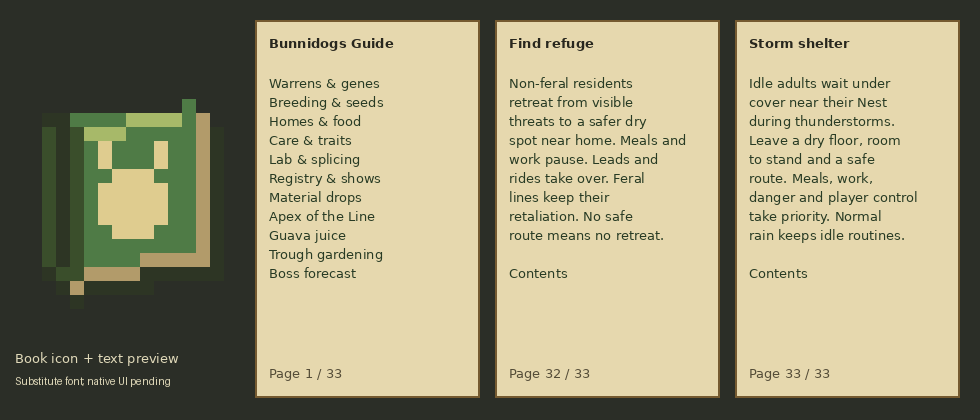
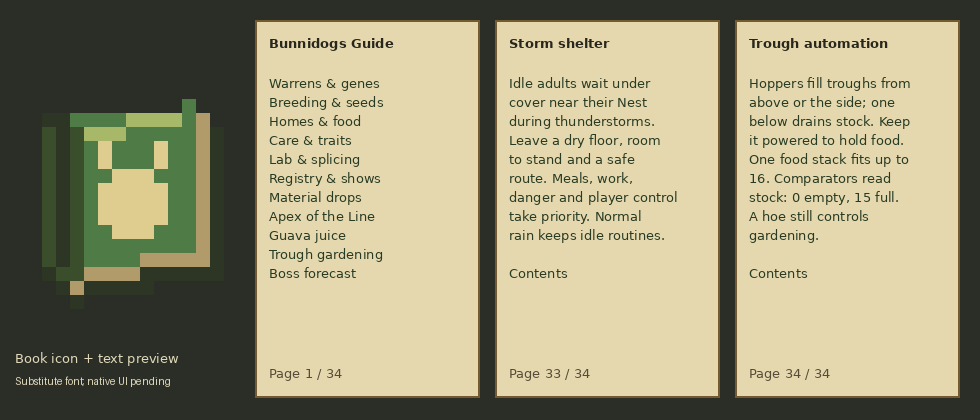
Automate feeding troughs with transactional stock and comparator output

diff --git a/tools/gametest/java/com/bunnidogs/mod/entity/TroughAutomationGameTest.java b/tools/gametest/java/com/bunnidogs/mod/entity/TroughAutomationGameTest.java
@@ -1,0 +1,104 @@
+package com.bunnidogs.mod.entity;
+
+import com.bunnidogs.mod.block.FeedingTroughBlock;
+import com.bunnidogs.mod.block.FeedingTroughBlockEntity;
+import com.bunnidogs.mod.registry.ModBlocks;
+import com.bunnidogs.mod.registry.ModItems;
+import net.minecraft.core.BlockPos;
+import net.minecraft.core.Direction;
+import net.minecraft.core.component.DataComponents;
+import net.minecraft.gametest.framework.GameTestHelper;
+import net.minecraft.network.chat.Component;
+import net.minecraft.world.entity.item.ItemEntity;
+import net.minecraft.world.item.ItemStack;
+import net.minecraft.world.item.Items;
+import net.minecraft.world.level.block.Blocks;
+import net.minecraft.world.level.block.ComparatorBlock;
+import net.minecraft.world.level.block.HopperBlock;
+import net.minecraft.world.level.block.entity.ComparatorBlockEntity;
+import net.minecraft.world.level.block.entity.HopperBlockEntity;
+import net.minecraft.world.phys.AABB;
+import net.neoforged.neoforge.capabilities.Capabilities;
+import net.neoforged.neoforge.transfer.item.ItemResource;
+import net.neoforged.neoforge.transfer.transaction.Transaction;
+
+public final class TroughAutomationGameTest {
+    private TroughAutomationGameTest() {}
+    public static void run(GameTestHelper h) {
+        var level = h.getLevel();
+        h.setBlock(3,0,3,Blocks.REDSTONE_BLOCK); h.setBlock(4,1,3,Blocks.STONE);
+        h.setBlock(new BlockPos(3,1,3),Blocks.HOPPER.defaultBlockState().setValue(HopperBlock.ENABLED,false));
+        h.setBlock(3,2,3,ModBlocks.FEEDING_TROUGH.get());
+        h.setBlock(3,3,3,Blocks.HOPPER);
+        h.setBlock(new BlockPos(4,2,3),Blocks.COMPARATOR.defaultBlockState().setValue(ComparatorBlock.FACING,Direction.WEST));
+        var pos = h.absolutePos(new BlockPos(3,2,3));
+        var comparator = (ComparatorBlockEntity)level.getBlockEntity(pos.east());
+        var trough = (FeedingTroughBlockEntity)level.getBlockEntity(pos);
+        var input = (HopperBlockEntity)level.getBlockEntity(pos.above());
+        var output = (HopperBlockEntity)level.getBlockEntity(pos.below());
+        var named = new ItemStack(Items.CARROT,64);
+        named.set(DataComponents.CUSTOM_NAME,Component.literal("Delivered carrots"));
+        h.runAfterDelay(2,() -> {
+            var handler = level.getCapability(Capabilities.Item.BLOCK,pos,Direction.UP);
+            h.assertTrue(handler != null && handler == level.getCapability(Capabilities.Item.BLOCK,pos,Direction.DOWN),
+                    "All sides must share one transactional view of the real stock");
+            input.setItem(0,named.copy());
+            for (int tick = 0; tick < 160; tick++)
+                HopperBlockEntity.pushItemsTick(level,pos.above(),input.getBlockState(),input);
+            h.assertTrue(trough.food().getCount() == 16 && input.getItem(0).getCount() == 48
+                    && ItemStack.isSameItemSameComponents(named,trough.food()),
+                    "Real hopper pushes must stop at 16, retaining every remaining item and its components");
+            h.assertTrue(level.getBlockState(pos).getValue(FeedingTroughBlock.FILL) == 3,"Committed automation must update visible stock");
+            input.clearContent();
+            try (var transaction = Transaction.openRoot()) {
+                h.assertTrue(handler.extract(ItemResource.of(named),5,transaction) == 5,"A transfer may tentatively extract matching stock");
+            }
+            h.assertTrue(trough.food().getCount() == 16 && trough.stockSignal() == 15,
+                    "An uncommitted transfer must restore exact stock and leave visible/redstone state alone");
+            h.runAfterDelay(3,() -> {
+                h.assertTrue(comparator.getOutputSignal() == 15,"A real neighbouring comparator must notice a full trough");
+                level.setBlock(pos.below(2),Blocks.STONE.defaultBlockState(),3);
+                HopperBlockEntity.pushItemsTick(level,pos.below(),output.getBlockState(),output);
+                level.setBlock(pos.below(2),Blocks.REDSTONE_BLOCK.defaultBlockState(),3);
+                h.assertTrue(trough.food().getCount() == 15 && output.getItem(0).getCount() == 1
+                        && ItemStack.isSameItemSameComponents(named,output.getItem(0)),
+                        "A real hopper below must extract exactly one preserved item");
+                try (var transaction = Transaction.openRoot()) {
+                    h.assertTrue(handler.insert(ItemResource.of(Items.CARROT),1,transaction) == 0
+                            && handler.insert(ItemResource.of(Items.STONE),1,transaction) == 0
+                            && handler.insert(ItemResource.of(Items.MUSHROOM_STEW),1,transaction) == 0,
+                            "Automation must reject mismatched components, non-food and remainder-bearing food");
+                    transaction.commit();
+                }
+                h.runAfterDelay(3,() -> {
+                    h.assertTrue(comparator.getOutputSignal() == 14,"Extraction must update the comparator even within the same visual fill level");
+                    var savedStock = trough.takeAll();
+                    var small = new ItemStack(ModItems.GUAVA.get());
+                    small.set(DataComponents.MAX_STACK_SIZE,1);
+                    try (var transaction = Transaction.openRoot()) {
+                        h.assertTrue(handler.insert(ItemResource.of(small),8,transaction) == 1,
+                                "A smaller component-defined stack limit must cap even a bulk transfer");
+                        transaction.commit();
+                    }
+                    h.assertTrue(trough.food().getCount() == 1 && trough.stockSignal() == 15,
+                            "Comparator fullness must use the effective item capacity");
+                    try (var transaction = Transaction.openRoot()) {
+                        h.assertTrue(handler.extract(ItemResource.of(small),8,transaction) == 1,"Extraction must respect available stock");
+                        transaction.commit();
+                    }
+                    h.runAfterDelay(3,() -> {
+                        h.assertTrue(comparator.getOutputSignal() == 0 && trough.food().isEmpty()
+                                && level.getBlockState(pos).getValue(FeedingTroughBlock.FILL) == 0,"Empty committed stock must clear both outputs");
+                        trough.insert(savedStock);
+                        level.destroyBlock(pos,true);
+                        int dropped = level.getEntitiesOfClass(ItemEntity.class,new AABB(pos).inflate(1),
+                                item -> ItemStack.isSameItemSameComponents(item.getItem(),savedStock))
+                                .stream().mapToInt(item -> item.getItem().getCount()).sum();
+                        h.assertTrue(dropped == 15,"Breaking an automated trough must drop its preserved stock exactly once");
+                        h.succeed();
+                    });
+                });
+            });
+        });
+    }
+}

diff --git a/src/main/java/com/bunnidogs/mod/block/FeedingTroughBlockEntity.java b/src/main/java/com/bunnidogs/mod/block/FeedingTroughBlockEntity.java
@@ -21,17 +21,35 @@ import net.minecraft.world.level.block.entity.BlockEntity;
 import net.minecraft.world.level.block.state.BlockState;
 import net.minecraft.world.level.storage.ValueInput;
 import net.minecraft.world.level.storage.ValueOutput;
+import net.neoforged.neoforge.transfer.ResourceHandler;
+import net.neoforged.neoforge.transfer.item.ItemResource;
+import net.neoforged.neoforge.transfer.item.ItemStackResourceHandler;
 
 /** One preserved food stack. Meals are server-thread transactions; residents share the stock. */
 public final class FeedingTroughBlockEntity extends BlockEntity {
     public static final int CAPACITY = 16;
     private ItemStack food = ItemStack.EMPTY;
+    /** One journal for every side, retaining the existing Food save and exact components. */
+    private final ItemStackResourceHandler automation = new ItemStackResourceHandler() {
+        @Override protected ItemStack getStack() { return food; }
+        @Override protected void setStack(ItemStack stack) { food = stack; }
+        @Override protected boolean isValid(ItemResource resource) { return accepts(resource.toStack()); }
+        @Override protected int getCapacity(ItemResource resource) {
+            return resource.isEmpty() ? CAPACITY : Math.min(CAPACITY,resource.getMaxStackSize());
+        }
+        @Override protected void onRootCommit(ItemStack previous) { changed(); }
+    };
     public FeedingTroughBlockEntity(BlockPos pos, BlockState state) { super(ModBlocks.FEEDING_TROUGH_BE.get(),pos,state); }
     public static boolean accepts(ItemStack stack) {
         return !stack.isEmpty() && !stack.has(DataComponents.USE_REMAINDER)
                 && (stack.is(ModItems.BUNNIDOG_FOOD) || Arrays.stream(Diet.values()).anyMatch(d -> ModDietTags.accepts(d,stack)));
     }
     public ItemStack food() { return this.food; }
+    public ResourceHandler<ItemResource> automation() { return this.automation; }
+    public int stockSignal() {
+        return this.food.isEmpty() ? 0 : 1+14*Math.min(this.food.getCount(),Math.min(CAPACITY,this.food.getMaxStackSize()))
+                / Math.min(CAPACITY,this.food.getMaxStackSize());
+    }
     public boolean canInsert(ItemStack stack) {
         return accepts(stack) && (this.food.isEmpty() || ItemStack.isSameItemSameComponents(this.food,stack))
                 && this.food.getCount() < Math.min(CAPACITY,stack.getMaxStackSize());
@@ -59,7 +77,7 @@ public final class FeedingTroughBlockEntity extends BlockEntity {
     }
     private void changed() {
         this.setChanged();
-        if (this.level instanceof ServerLevel server) {
+        if (this.level instanceof ServerLevel server && !this.isRemoved() && server.getBlockEntity(this.worldPosition) == this) {
             int fill = this.food.isEmpty() ? 0 : this.food.getCount() <= 5 ? 1 : this.food.getCount() <= 10 ? 2 : 3;
             if (this.getBlockState().getValue(FeedingTroughBlock.FILL) != fill)
                 server.setBlock(this.worldPosition,this.getBlockState().setValue(FeedingTroughBlock.FILL,fill),3);

diff --git a/art/gen_guide.py b/art/gen_guide.py
@@ -37,6 +37,7 @@ PAGES = {
     31: ('Resident needs', 'Sneak-use Calipers for a claimed Nest, distance, foods and meal recovery. Healthy adults need no healing. Ready means ready to search, not a promise of nearby food. Reading changes nothing.'),
     32: ('Find refuge', 'Non-feral residents retreat from visible threats to a safer dry spot near home. Meals and work pause. Leads and rides take over. Feral lines keep their retaliation. No safe route means no retreat.'),
     33: ('Storm shelter', 'Idle adults wait under cover near their Nest during thunderstorms. Leave a dry floor, room to stand and a safe route. Meals, work, danger and player control take priority. Normal rain keeps idle routines.'),
+    34: ('Trough automation', 'Hoppers fill troughs from above or the side; one below drains stock. Keep it powered to hold food. One food stack fits up to 16. Comparators read stock: 0 empty, 15 full. A hoe still controls gardening.'),
 }
 INDEX = {2:'Warrens & genes',4:'Breeding & seeds',8:'Homes & food',11:'Care & traits',15:'Lab & splicing',
          17:'Registry & shows',19:'Material drops',20:'Apex of the Line',24:'Guava juice',25:'Trough gardening',27:'Boss forecast'}
@@ -85,7 +86,7 @@ def main():
         bold = ImageFont.truetype('DejaVuSans-Bold.ttf',13)
     except OSError:
         font = bold = ImageFont.load_default()
-    for x,page in [(255,1),(495,32),(735,33)]:
+    for x,page in [(255,1),(495,33),(735,34)]:
         d.rectangle((x,20,x+224,397),fill=(230,216,174),outline=(117,90,48),width=2)
         d.text((x+14,35), 'Bunnidogs Guide' if page == 1 else PAGES[page][0], font=bold,fill=(40,39,30))
         if page == 1: body = '\n'.join(INDEX.values())

diff --git a/tools/gametest/java/com/bunnidogs/mod/entity/GuavaGameTest.java b/tools/gametest/java/com/bunnidogs/mod/entity/GuavaGameTest.java
@@ -55,7 +55,7 @@ public final class GuavaGameTest extends GameTestInstance {
     @SubscribeEvent
     public static void registerTests(RegisterGameTestsEvent event) {
         var environment = event.registerEnvironment(id("guava_integration"), new TestEnvironmentDefinition.AllOf());
-        for (String name : new String[]{"boats", "signs", "transport", "rehoming", "wayfinding", "sampling", "adaptations", "fleece", "splicing", "registry", "table_planning", "show", "grooming", "settlement", "apex", "fixtures", "gardening", "pantry", "fishing", "refuge", "storm_shelter"}) {
+        for (String name : new String[]{"boats", "signs", "transport", "rehoming", "wayfinding", "sampling", "adaptations", "fleece", "splicing", "registry", "table_planning", "show", "grooming", "settlement", "apex", "fixtures", "gardening", "pantry", "fishing", "refuge", "storm_shelter", "trough_automation"}) {
             event.registerTest(id(name), new GuavaGameTest(name, new TestData<>(environment, id("empty"), 100, 0, true)));
         }
     }
@@ -80,6 +80,7 @@ public final class GuavaGameTest extends GameTestInstance {
             case "fishing" -> { FishingGameTest.run(h); return; }
             case "refuge" -> { RefugeGameTest.run(h); return; }
             case "storm_shelter" -> { StormShelterGameTest.run(h); return; }
+            case "trough_automation" -> { TroughAutomationGameTest.run(h); return; }
             case "grooming" -> GroomingGameTest.run(h);
             case "settlement" -> { SettlementGameTest.run(h); return; }
             case "transport" -> transport(h);

diff --git a/src/main/java/com/bunnidogs/mod/block/FeedingTroughBlock.java b/src/main/java/com/bunnidogs/mod/block/FeedingTroughBlock.java
@@ -1,6 +1,7 @@
 package com.bunnidogs.mod.block;
 
 import net.minecraft.core.BlockPos;
+import net.minecraft.core.Direction;
 import net.minecraft.network.chat.Component;
 import net.minecraft.tags.ItemTags;
 import net.minecraft.world.InteractionHand;
@@ -32,6 +33,10 @@ public final class FeedingTroughBlock extends Block implements EntityBlock {
     @Override protected void createBlockStateDefinition(StateDefinition.Builder<Block,BlockState> builder) { builder.add(FILL,TENDING); }
     @Override public BlockEntity newBlockEntity(BlockPos pos, BlockState state) { return new FeedingTroughBlockEntity(pos,state); }
     @Override public VoxelShape getShape(BlockState state, BlockGetter level, BlockPos pos, CollisionContext context) { return SHAPE; }
+    @Override protected boolean hasAnalogOutputSignal(BlockState state) { return true; }
+    @Override protected int getAnalogOutputSignal(BlockState state, Level level, BlockPos pos, Direction direction) {
+        return level.getBlockEntity(pos) instanceof FeedingTroughBlockEntity trough ? trough.stockSignal() : 0;
+    }
     @Override protected InteractionResult useItemOn(ItemStack stack, BlockState state, Level level, BlockPos pos,
             Player player, InteractionHand hand, BlockHitResult hit) {
         if (!player.mayBuild()) return InteractionResult.PASS;

diff --git a/src/main/java/com/bunnidogs/mod/registry/ModBlocks.java b/src/main/java/com/bunnidogs/mod/registry/ModBlocks.java
@@ -35,6 +35,8 @@ import net.minecraft.world.level.block.TintedParticleLeavesBlock;
 import net.minecraft.world.level.block.entity.BlockEntityType;
 import net.minecraft.world.level.block.entity.BlockEntityTypes;
 import net.neoforged.neoforge.event.BlockEntityTypeAddBlocksEvent;
+import net.neoforged.neoforge.capabilities.Capabilities;
+import net.neoforged.neoforge.capabilities.RegisterCapabilitiesEvent;
 import net.neoforged.neoforge.registries.DeferredBlock;
 import net.neoforged.neoforge.registries.DeferredHolder;
 import net.neoforged.neoforge.registries.DeferredRegister;
@@ -49,6 +51,10 @@ import net.neoforged.neoforge.registries.DeferredRegister;
  */
 public final class ModBlocks {
     private ModBlocks() {}
+
+    public static void registerCapabilities(RegisterCapabilitiesEvent event) {
+        event.registerBlockEntity(Capabilities.Item.BLOCK,FEEDING_TROUGH_BE.get(),(trough,side) -> trough.automation());
+    }
 
     public static final DeferredRegister.Blocks BLOCKS = DeferredRegister.createBlocks(BunnidogsMod.MODID);
     public static final DeferredRegister<BlockEntityType<?>> BLOCK_ENTITIES =

diff --git a/src/main/java/com/bunnidogs/mod/item/FieldGuideItem.java b/src/main/java/com/bunnidogs/mod/item/FieldGuideItem.java
@@ -11,7 +11,7 @@ import net.minecraft.world.item.component.WrittenBookContent;
 
 /** Native book UI/packets, translated pages and local page links; no custom screen or payload. */
 public final class FieldGuideItem extends WrittenBookItem {
-    public static final int PAGE_COUNT = 33;
+    public static final int PAGE_COUNT = 34;
     public FieldGuideItem(Properties properties) {
         super(properties.component(DataComponents.WRITTEN_BOOK_CONTENT, content()));
     }

diff --git a/src/main/java/com/bunnidogs/mod/BunnidogsMod.java b/src/main/java/com/bunnidogs/mod/BunnidogsMod.java
@@ -35,6 +35,7 @@ public class BunnidogsMod {
         ModStructures.PIECE_TYPES.register(modEventBus);
         ModBlocks.BLOCK_ENTITIES.register(modEventBus);
         modEventBus.addListener(ModBlocks::addSignBlocks);
+        modEventBus.addListener(ModBlocks::registerCapabilities);
         ModItems.COMPONENTS.register(modEventBus);
         ModItems.ITEMS.register(modEventBus);
         modEventBus.addListener(ModItems::addToCreativeTabs);

diff --git a/START_HERE.md b/START_HERE.md
@@ -20,6 +20,12 @@ is not exposed in this session: use available work budget without inventing quot
 
 ## Latest gameplay work — 2026-10-16
 
+- **L9, trough automation:** native hoppers supply/extract the existing stack;
+  comparators read 0 empty through 15 full. The shared transactional handler
+  preserves the 16-item/effective limit, food filters and exact components.
+  Power a hopper below to retain food. No new saves, menu or structure refill.
+  See `docs/SETTLEMENT_LIFE.md` L9.
+
 - **L8, storm shelter:** idle adults seek dry reachable cover near their Nest
   during native thunderstorms, then wait there. The bounded low-priority goal
   yields to care, work, social/home routines, breeding, danger and player control.
@@ -67,7 +73,7 @@ is not exposed in this session: use available work budget without inventing quot
   all eight crops remain. End mushroom plots and saved versions 1–3 keep their
   previous layout. See `docs/SETTLEMENT_LIFE.md` L5.
 
-The native Field Guide now has 33 translated pages and eleven contents links.
+The native Field Guide now has 34 translated pages and eleven contents links.
 `art/gen_guide.py` owns its text/icon/preview, including gardening, forecasts,
 renewable care, terrain traits and fishing. `art/gen_pantries.py` owns the eight
 new loot tables and shares the guide pool. See `docs/FIELD_GUIDE.md`.
@@ -84,7 +90,7 @@ new loot tables and shares the guide pool. See `docs/FIELD_GUIDE.md`.
 | Care | Live Tissue Samples, woolly fleece, whiskers/dust, saved recoveries and sneak-Calipers home/food/care/work status. `docs/CARE_SPECS.md` C1–C6 |
 | Adaptations | Expressed fire/cold/fall/Poison/cactus/Levitation benefits, slate armor, heavy-build knockback resistance, self-lit glow and terrain movement. `docs/CARE_SPECS.md` A1–A4 |
 | Homes | Claimable Nests, day tether/night return, floor Nests, native leads/rides, safe led-adult reassignment. `docs/HOME_SPECS.md` H1–H5 |
-| Settlement life | Saved trough stock, diet healing, noon bell visits, fitted den furniture, gardening, local stores, refuge and storm shelter. `docs/SETTLEMENT_LIFE.md` L1–L8 |
+| Settlement life | Saved trough stock/automation, diet healing, noon bell visits, fitted den furniture, gardening, local stores, refuge and storm shelter. `docs/SETTLEMENT_LIFE.md` L1–L9 |
 | Warrens | Fitted dens/mouths/tunnels/cellars, landmark rooms, grand-tree hall/loop/lower commons, cave/Nether/End entrances and saved labels. `docs/WARREN_PLAN.md` U1–U8 |
 | Wood and travel | Guava building/redstone set, doors/shutters/lamps, four sign forms, native boats/chest boats with custom assets and drops. `docs/FIXES_PLAN.md` 4–5 |
 | Drops and endgame | Pelts/materials, Mutagen/Marrow/Tissue/Dust, five stat legends and pedestals. Sample-defined Apex ritual, inherited combat, warned attacks/enrage, boss bar and source-line crest. `docs/DROPS_SPECS.md`, `docs/APEX_SPECS.md` |
@@ -163,6 +169,11 @@ real thunder/sky exposure, a complete path beneath a roof, covered waiting,
 lead/clear-weather interruption and native healing-trough preemption. Shared
 navigation also retains the L7 refuge cases. The 33-page guide preview is
 inspected; natural weather balance and client book fonts remain gameplay review.
+
+L9 passes the actual build and all twenty-three native cases, including
+real hopper transfers, comparator scheduling, capacity/components, transaction
+abort, empty outputs and stock drops. Its 34-page guide preview is inspected.
+Modded item devices and client contraptions remain gameplay review.
 
 Native tests establish server behavior, not complete client or natural-world
 play. Remaining review includes client interaction/lighting/book fonts, natural

diff --git a/docs/SETTLEMENT_LIFE.md b/docs/SETTLEMENT_LIFE.md
@@ -1,4 +1,4 @@
-# Settlement life L1–L8
+# Settlement life L1–L9
 
 Implemented 2026-10-16 under standing continuation authorization. Careful,
 home-bounded routines make resident animals useful and settlements feel occupied.
@@ -21,7 +21,7 @@ item, heals 2 HP and shares the saved 30-second foraging recovery. No love mode,
 pup growth, inventory raiding, crop edits or mob-griefing requirement. Higher
 priority danger, breeding, temptation, home, leads and rides take precedence.
 Searches use a shared POI index, run at bounded intervals and never load terrain.
-The stock is player-provided; no hopper/menu system is added in this stage.
+The stock is player-provided; L9 later adds hopper access without a menu.
 
 ## L2: Bell gatherings
 
@@ -209,6 +209,40 @@ uses real exposed weather and a roof, checks a complete native route, lead
 interruption, covered waiting and release when thunder ends, and exercises
 native goal arbitration so a healing trough preempts shelter during the storm.
 Nest/stock preservation and Apex exclusion pass; guide preview inspected.
+
+## L9: trough automation and stock signals
+
+Native hoppers can fill a trough from above or from the side. A hopper below
+extracts stock; power that hopper to hold food for residents. Compatible modded
+item-transfer devices can use the same one-slot capability from any face.
+Automation keeps the existing 16-item capacity (or smaller item stack limit),
+food/remainder filtering, exact data components and single-food rule. It never
+changes Diet acceptance, starts breeding or enables gardening; a hoe still
+controls work. Existing generated/player troughs gain access on loading.
+
+Comparators read 0 when empty and 1–15 for stock, with 15 at effective capacity.
+The formula is `1 + floor(14 * count / capacity)` for nonempty stock; eight
+ordinary items yield 8 and sixteen yield 15. Every committed transfer, meal,
+harvest or manual stock change notifies comparators, including changes within
+one of the four visual fill levels. A smaller component-defined stack capacity
+uses its actual limit for fullness.
+
+The NeoForge 26.2 transactional item handler shares one journal on all faces.
+Aborted transfers restore the exact stack without visible/redstone updates;
+only root commits notify the level. It uses the existing `Food` save field and
+preserves previously saved stock even if data-pack food tags change. Breaking
+still drops the preserved stock once. No ticker, menu, new saved format, custom
+packet, structure refill or recipe change is needed. The Field Guide grows to
+34 pages, with an automation page explaining how to retain food.
+
+Actual Java 25 build and all twenty-three native cases pass. The new case uses
+real hopper transfer code and scheduled comparator ticks for capped insertion,
+named-component extraction, same-fill-level redstone changes and empty output.
+It also covers aborted transfers, invalid/mismatching/remainder foods, a smaller
+component-defined capacity and exactly-once stock drops. Its drain hopper uses
+real redstone power so native neighbour updates retain the lock. The guide
+preview is inspected; modded-device compatibility and client contraptions remain
+gameplay review.
 
 ## Evidence
 

diff --git a/docs/API_NOTES.md b/docs/API_NOTES.md
@@ -142,6 +142,25 @@ the same int-array API for saved `PathExclusions`; it adds no new Minecraft API.
 planner uses `EmptyBlockGetter.INSTANCE` for the vanilla base-state hardness and
 collision queries; the command path uses its live `WorldGenLevel`.
 
+### Trough transfer and redstone (L9, 2026-10-16)
+
+NeoForge 26.2 exposes `Capabilities.Item.BLOCK` as a
+`ResourceHandler<ItemResource>`, registered by `RegisterCapabilitiesEvent`.
+`ItemStackResourceHandler` can wrap the existing stock through `getStack` /
+`setStack`, with `isValid`, effective `getCapacity` and `onRootCommit` overrides.
+One shared handler retains cross-face transaction snapshots; `Transaction.openRoot`
+aborts unless committed. Native hoppers fall back to this capability when the
+block entity is not a `Container`; their handler path respects the custom cap.
+The old Container path's merge uses the item's stack limit, so it alone is not
+enough to enforce a smaller trough capacity.
+
+Native comparator override is `getAnalogOutputSignal(BlockState, Level,
+BlockPos, Direction)` plus `hasAnalogOutputSignal`. `BlockEntity.setChanged()`
+notifies neighbouring comparators independently of block-state changes.
+Resolved sources, compiler and actual hopper/scheduled-comparator cases pass;
+implementation: `block/FeedingTroughBlockEntity.java`, `FeedingTroughBlock.java`,
+`registry/ModBlocks.java` and `tools/gametest/.../TroughAutomationGameTest.java`.
+
 ### Traps that cost time before
 * The javadoc of NeoForge lags behind its code (old event names). Trust class declarations and `import` lines.
 * `registerGoals()` runs inside the super constructor, before any field initializer of the subclass (see `docs/REFERENCE.md` "Conventions"). Fields with initializers are fine for state the super constructor never touches (`Bunnidog.guavaMemory`).

diff --git a/docs/FIELD_GUIDE.md b/docs/FIELD_GUIDE.md
@@ -11,6 +11,7 @@ Shore fishing explains resident Fisher prey, needs, healing and recovery.
 Resident needs explains the Calipers home/food/recovery snapshot.
 Refuge explains non-feral residents' bounded response to visible threats.
 Storm shelter explains idle covered waiting and its priority below care/work.
+Trough automation explains hopper supply/drain, food retention and stock signals.
 
 Craft one with a vanilla book and any guava (the existing bunnidog-food tag).
 Obtaining a guava unlocks its recipe. An additional independent 35% pantry loot
@@ -21,7 +22,7 @@ containers are not refilled and player inventories are not edited. See
 
 ## Presentation and saves
 
-Thirty-three pages use the ordinary written-book screen. Page 1 has eleven clickable
+Thirty-four pages use the ordinary written-book screen. Page 1 has eleven clickable
 chapter links; every other page links back to the contents. Local page changes
 are the only click action. All text is translatable through en_us.json. The
 book stacks to one and appears beside the Calipers in Tools & Utilities.
@@ -48,5 +49,7 @@ native sanity, including loading the new book/recipe/loot resources. GitHub
 delivery is checked for each pushed checkpoint.
 The expanded 33-page guide also passes the actual build and current twenty-two
 native cases; its refuge/storm pages and contents preview are inspected.
+The 34-page automation update passes the build and twenty-three native cases;
+its page/contents preview is inspected.
 Actual client book navigation, font rendering and pantry discovery need gameplay
 review. No extra server scenario is added for this native-book content change.
